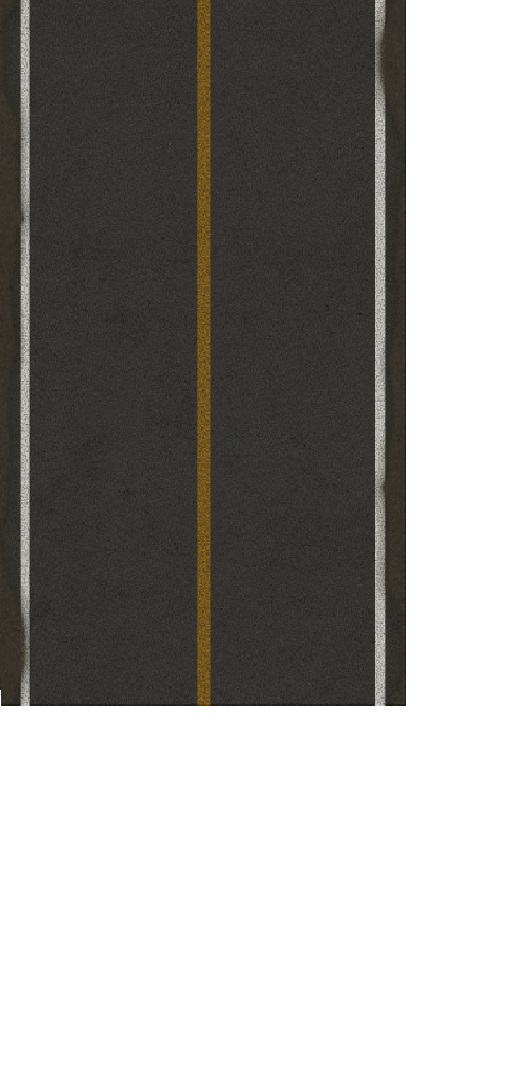
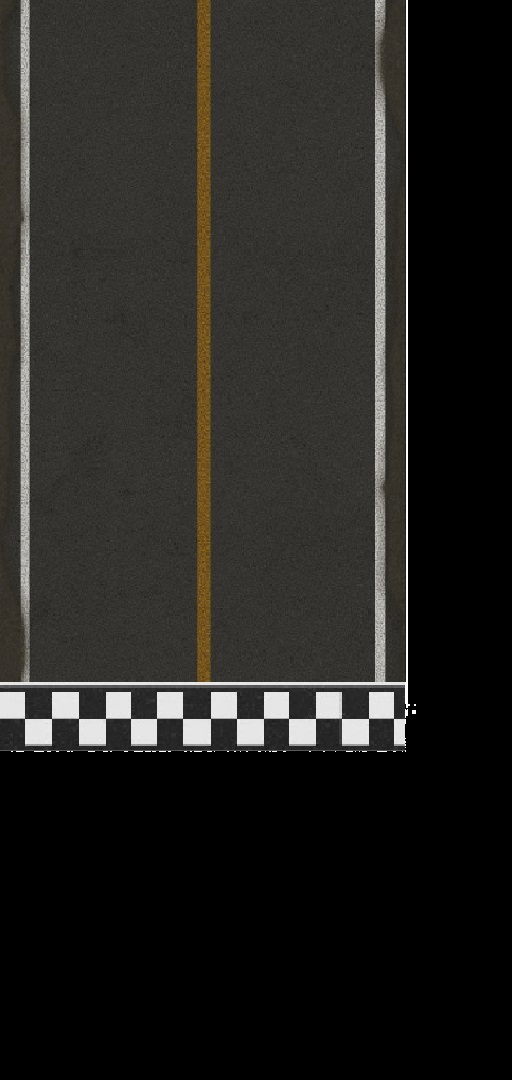
commit by ahhong

diff --git a/P1/Level1.cpp b/P1/Level1.cpp
@@ -16,28 +16,51 @@ Level1::~Level1()
 void Level1::init()
 {
 	//	Create sprite. Study the documentation. 	D3DXCreateSprite(GGraphic::getInstance()->d3dDevice, &sprite);
+
 	D3DXCreateSprite(GGraphic::getInstance()->d3dDevice, &sprite);
-	D3DXCreateTextureFromFileEx(GGraphic::getInstance()->d3dDevice, "img/roadbackground.jpg", D3DX_DEFAULT, D3DX_DEFAULT,
-		D3DX_DEFAULT, NULL, D3DFMT_A8R8G8B8, D3DPOOL_MANAGED,
-		D3DX_DEFAULT, D3DX_DEFAULT, D3DCOLOR_XRGB(0, 255, 255),
-		NULL, NULL, &texture);
+	//D3DXCreateTextureFromFileEx(GGraphic::getInstance()->d3dDevice, "img/roadbackground.jpg", D3DX_DEFAULT, D3DX_DEFAULT,
+	//	D3DX_DEFAULT, NULL, D3DFMT_A8R8G8B8, D3DPOOL_MANAGED,
+	//	D3DX_DEFAULT, D3DX_DEFAULT, D3DCOLOR_XRGB(0, 255, 255),
+	//	NULL, NULL, &texture1);
+
+	D3DXCreateTextureFromFile(GGraphic::getInstance()->d3dDevice, "img/roadbg.jpg", &background_texture);
+
 	D3DXCreateTextureFromFileEx(GGraphic::getInstance()->d3dDevice, "img/Maincar.png", D3DX_DEFAULT, D3DX_DEFAULT,
 		D3DX_DEFAULT, NULL, D3DFMT_A8R8G8B8, D3DPOOL_MANAGED,
 		D3DX_DEFAULT, D3DX_DEFAULT, D3DCOLOR_XRGB(255, 255, 255),
 		NULL, NULL, &texture_car);
 
-
-	vPosition = { 0,-200,0 };
-
-	car_spriteRect.left = 27;
-	car_spriteRect.top = 11;	
-	car_spriteRect.right = 121;
-	car_spriteRect.bottom = 163;
-
-	spriteCentre = D3DXVECTOR2(0, 0);
-	position = D3DXVECTOR2(100, 100);
-	scaling = D3DXVECTOR2(0.8f, 0.8f);
+	vPosition = { 0,-7640,0 };
 	
+	//width = 400/ 4 = 100
+	//Height = 450 / 3 = 150
+
+	mainCarSize.x = 100;
+	mainCarSize.y = 150;
+
+	mainCarCurrentFrame = 0;
+	car_spriteRect.top = 6;
+	car_spriteRect.left = 12;
+	car_spriteRect.bottom = car_spriteRect.top + mainCarSize.y;
+	car_spriteRect.right = car_spriteRect.left + mainCarSize.x;
+
+	animationTimer = 0;
+	animationRate = 0.3f / 4;
+	animationRow = 0;
+	
+	scaling.x = 0.8f;
+	scaling.y = 0.8f;
+
+	mainCar_position.x = 141;
+	mainCar_position.y = 450;
+
+	background_position.x = 0;
+	background_position.y = 0;
+
+	isMainCarMoving = false;
+	speed = 600.0f;
+	direction.x = 0;
+	direction.y = 1;
 }
 
 void Level1::update()
@@ -46,52 +69,82 @@ void Level1::update()
 		GameStateManager::getInstance()->changeGameState(GameStateManager::LEVEL_1);
 	}
 
-
 	if (GInput::getInstance()->isKeyDown(DIK_UP))
 	{
 		printf("UP\n");
-		Car::getInstance()->mainCar_position.y += speed;
-		Car::getInstance()->mainCar_position.y++;
-		Car::getInstance()->direction.x = 0;
-		Car::getInstance()->direction.y = -1;
+		animationRow = 0;
+		isMainCarMoving = true;
+		direction.x = 0;
+		direction.y = -1;
+		
 	}
-
+	
+	
 	if (GInput::getInstance()->isKeyDown(DIK_LEFT)) {
 		printf("LEFT\n");
-		Car::getInstance()->mainCar_position.x += speed;
-		Car::getInstance()->mainCar_position.x++;
-		Car::getInstance()->direction.x = -1;
-		Car::getInstance()->direction.y = 0;
+		animationRow = 1;
+		isMainCarMoving = true;
+		direction.x = -1;
+		direction.y = 0;
 	}
 
 	if (GInput::getInstance()->isKeyDown(DIK_RIGHT)) {
 		printf("RIGHT\n");
-		Car::getInstance()->mainCar_position.x -= speed;
-		Car::getInstance()->mainCar_position.x--;
-		Car::getInstance()->direction.x = 1;
-		Car::getInstance()->direction.y = 0;
+		animationRow = 2;
+		isMainCarMoving = true;
+		direction.x = 1;
+		direction.y = 0;
 	}
-
+	/*else
+	{
+		isMainCarMoving = false;
+	}*/
 }
 
 void Level1::fixedUpdate() 
 {
+	if (isMainCarMoving) {
+		animationTimer += 1 / 60.0f;
+		D3DXVECTOR2 velocity = direction * (speed / 60.0f);
+		mainCar_position += velocity;
+	}
+	
 
+	if (animationTimer >= animationRate) {
+		animationTimer -= animationRate;
+		mainCarCurrentFrame++;
+		mainCarCurrentFrame %= 4;
+	}
+
+	car_spriteRect.top = animationRow * mainCarSize.y;
+	car_spriteRect.left = mainCarSize.x * mainCarCurrentFrame;
+	car_spriteRect.bottom = car_spriteRect.top + mainCarSize.y;
+	car_spriteRect.right = car_spriteRect.left + mainCarSize.x;
+	
 }
 
 
 void Level1::draw()
 {
+	D3DXVECTOR2 tempPosition = background_position;
+	tempPosition.y /= 20;
+
 	sprite->Begin(D3DXSPRITE_ALPHABLEND);
-
-	D3DXMatrixTransformation2D(&mat, NULL, 0.0, NULL, NULL, NULL, NULL);
-	sprite->SetTransform(&mat);
-	sprite->Draw(texture, NULL, NULL,&vPosition, D3DCOLOR_XRGB(255, 255, 255));
-
-	D3DXMatrixTransformation2D(&mat, NULL, 0.0, &scaling, &spriteCentre, rotation, &position);
 	
+	
+	tempPosition.y = 300 - mainCar_position.y;
+	tempPosition.y = max(max(0, tempPosition.y), -16084);
+	
+	D3DXVECTOR2 carOnScreen = mainCar_position + tempPosition;
+	//background_position.y += speed + boostSpeed;
+
+	D3DXMatrixTransformation2D(&mat, NULL, 0.0, NULL, NULL, NULL, &tempPosition);
 	sprite->SetTransform(&mat);
-	sprite->Draw(texture_car, &car_spriteRect, &Car::getInstance()->mainCar_position, NULL, D3DCOLOR_XRGB(255, 255, 255));
+	sprite->Draw(background_texture, NULL, NULL,&vPosition, D3DCOLOR_XRGB(255, 255, 255));
+
+	D3DXMatrixTransformation2D(&mat, NULL, 0.0, NULL, NULL, NULL, &carOnScreen);
+	sprite->SetTransform(&mat);
+	sprite->Draw(texture_car, &car_spriteRect,NULL, NULL, D3DCOLOR_XRGB(255, 255, 255));
 
 	sprite->End();
 }
@@ -99,7 +152,11 @@ void Level1::release()
 {
 	sprite->Release();
 	sprite = NULL;
-	texture->Release();
-	texture = NULL;
+
+	background_texture->Release();
+	background_texture = NULL;
+
+	texture_car->Release();
+	texture_car = NULL;
 	
 }

diff --git a/P1/Level1.h b/P1/Level1.h
@@ -7,20 +7,23 @@ class Level1 : public GameState
 {
 private:
 	D3DXVECTOR3 vPosition;
-	LPDIRECT3DTEXTURE9 texture;
+	LPDIRECT3DTEXTURE9 background_texture;
 	LPDIRECT3DTEXTURE9 texture_car;
 	LPD3DXSPRITE sprite;
 	D3DXMATRIX mat;
-	RECT background_spriteRect;
 	RECT car_spriteRect;
-	///RECT textRect;
-	D3DXVECTOR2 spriteCentre;
-	D3DXVECTOR2 position;
+	D3DXVECTOR2 background_position;
+	D3DXVECTOR2 mainCar_position;
 	D3DXVECTOR2 scaling;
-	float rotation = 0;
-	int x = 0;
-	int y = 0;
-	int speed = 2;
+	D3DXVECTOR2 direction;
+	D3DXVECTOR2 mainCarSize;
+	int boostSpeed = 0;
+	int mainCarCurrentFrame;
+	float animationRate;
+	float animationTimer;
+	int animationRow;
+	bool isMainCarMoving;
+	float speed;
 public: 
 	Level1();
 	~Level1(); 

diff --git a/P1/GGraphic.cpp b/P1/GGraphic.cpp
@@ -35,7 +35,7 @@ GGraphic::GGraphic()
 	d3dPP.BackBufferFormat = D3DFMT_X8R8G8B8;
 	d3dPP.BackBufferCount = 1;
 	d3dPP.BackBufferWidth = 400;
-	d3dPP.BackBufferHeight = 700;
+	d3dPP.BackBufferHeight = 600;
 	d3dPP.hDeviceWindow = GameWindows::getInstance()->g_hWnd;
 
 
@@ -53,7 +53,7 @@ GGraphic::~GGraphic()
 }
 void GGraphic::begin() {
 	//	Clear the back buffer.
-	d3dDevice->Clear(0, NULL, D3DCLEAR_TARGET, D3DCOLOR_XRGB(0, 0, 255), 1.0f, 0);
+	d3dDevice->Clear(0, NULL, D3DCLEAR_TARGET, D3DCOLOR_XRGB(255, 255, 255), 1.0f, 0);
 	//	Begin the scene
 	d3dDevice->BeginScene();
 }

diff --git a/P1/GameWindows.cpp b/P1/GameWindows.cpp
@@ -95,7 +95,7 @@ void GameWindows::init(){
 
 	
 	//	You are to refer to MSDN for each of the parameters details.
-	g_hWnd = CreateWindowEx(0, wndClass.lpszClassName, "My Window's Name", WS_OVERLAPPEDWINDOW, 0, 100, 400,700, NULL, NULL, hInstance, NULL);
+	g_hWnd = CreateWindowEx(0, wndClass.lpszClassName, "My Window's Name", WS_OVERLAPPEDWINDOW, 0, 100, 400,600, NULL, NULL, hInstance, NULL);
 
 
 	ShowWindow(g_hWnd, 1);

diff --git a/P1/main.cpp b/P1/main.cpp
@@ -17,7 +17,6 @@ int main()
 	GGraphic* gGraphic = GGraphic::getInstance();
 	GInput* gInput = GInput::getInstance();
 	GameStateManager* gameStateManager = GameStateManager::getInstance();
-	Car* car = Car::getInstance();
 
 	while (gWin->isWindowsRunning())
 	{
@@ -45,7 +44,6 @@ int main()
 	gWin->releaseInstance();
 	gGraphic->releaseInstance();
 	gInput->releaseInstance();
-	car->releaseInstance();
 	
 
 	return 0;

diff --git a/P1/car.cpp b/P1/car.cpp
@@ -2,32 +2,13 @@
 #include<stdio.h>
 #include "GInput.h"
 
-Car* Car::sInstance = 0;
-
 Car::Car()
 {
-	//121 91
-	mainCar_position = { 0,-260,0 };
 }
 
 Car::~Car()
 {
 }
 
-Car* Car::getInstance()
-{
-	if (sInstance == 0) {
-		sInstance = new Car;
-	}
-	return sInstance;
-}
-
-void Car::releaseInstance()
-{
-	if (sInstance != 0) {
-		delete sInstance;
-		sInstance = 0;
-	}
-}
 
 

diff --git a/P1/car.h b/P1/car.h
@@ -6,10 +6,6 @@ class Car
 private:
 	Car();
 	~Car();
-	static Car* sInstance;
 public:
-	D3DXVECTOR2 direction;
-	D3DXVECTOR3 mainCar_position;
-	static Car* getInstance();
-	static void releaseInstance();
+	
 };
